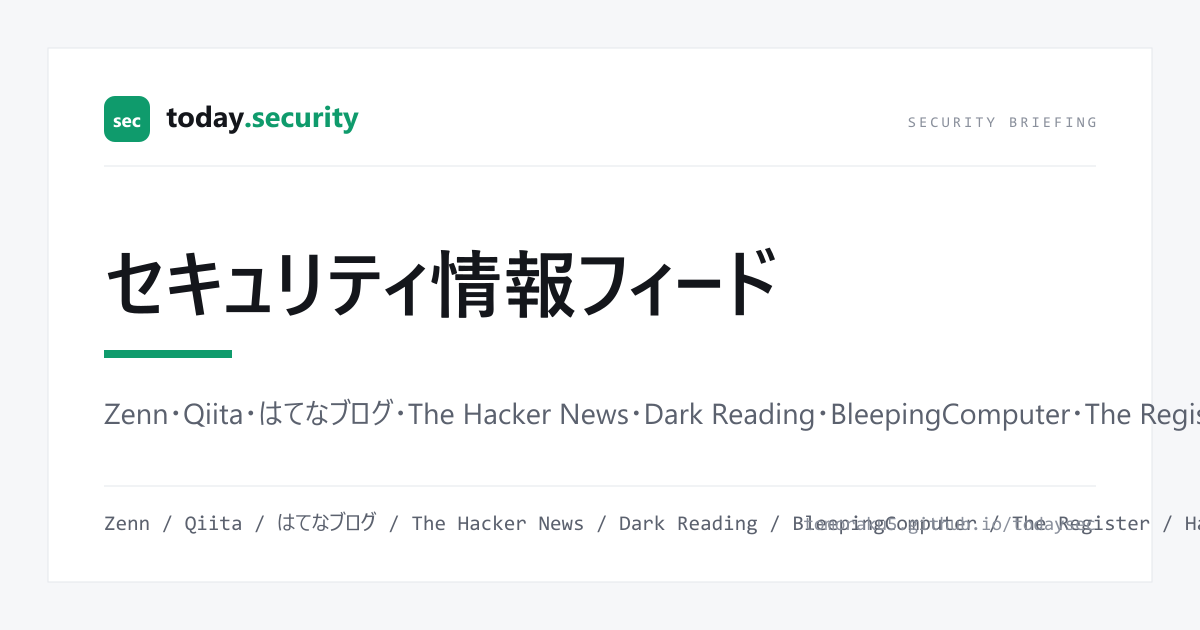
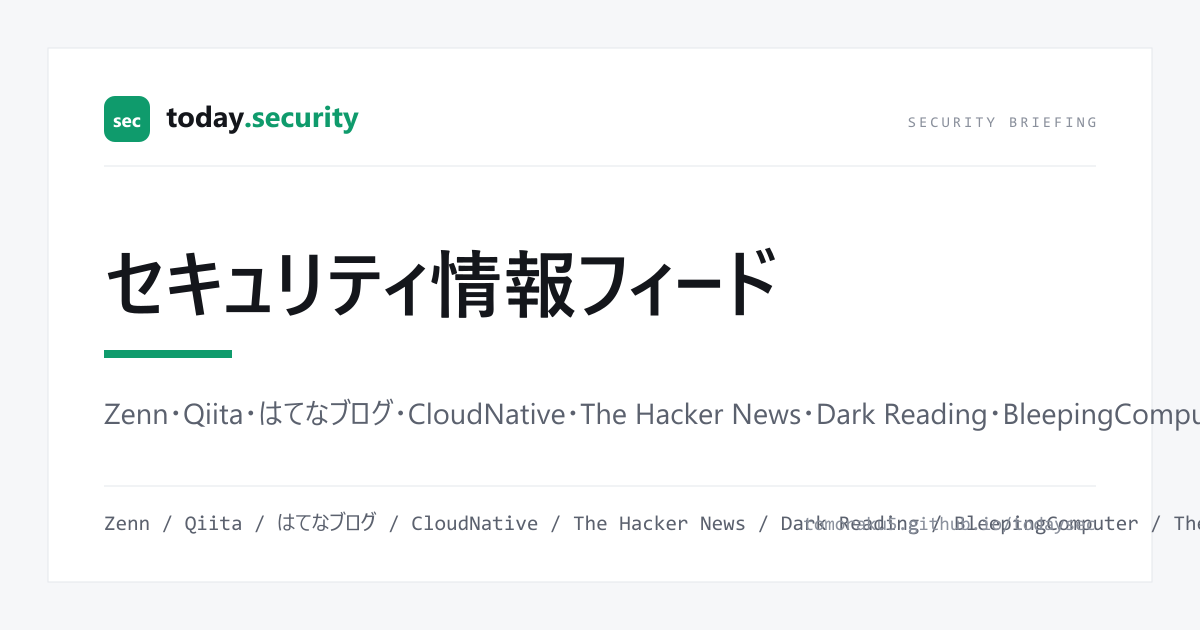
feat: 情報源に CloudNative BLOGs（セキュリティカテゴリ）を追加する
依頼の URL は blog.cloudnative.co.jp/category/security/ だったが、
⚠ カテゴリ別フィードは存在しない（/category/security/feed/ は HTML へ
リダイレクト、/rss.xml と /atom.xml は 404）。サイトが提供する唯一のフィードは
/feed.xml（全体・50件）なので、includeCategories で「セキュリティ」に絞る。

実測値:
- 全体フィード 50件 / 29.4日 = 1.70件/日。遡れる日数 約29日で全ソース中最大
- カテゴリ内訳: セキュリティ 32% / SaaS 20% / コラム 16% / AI 14% / その他 18%
- 絞り込み後 16件 / 0.55件/日
- enclosure にサムネ 50/50・dc:creator に著者名・抜粋は中央124字（空のものもある）
- 記事ページは UA 付き fetch で 200・og:image あり・本文 5,800〜11,300字

- バッジ色 --color-cloudnative: #7e57b7（10色目・Lab 色相309°の紫）。
  ⚠ 既存9色との最小色差 ΔE=43.8 で3回連続の基準未達（8色目48.3→9色目47.4→43.8）。
  白背景コントラスト 4.6〜6.6 の帯で全色相・全彩度を総当たりした最大値がこれで、
  これ以上離せる色は存在しない。個別色を続ける判断は項目10 のまま。同じ紫系の
  はてなブログとは彩度で差をつけている（58% vs 84%）。コントラスト 5.34:1
- enrichArticles の対象に追加（サムネはフィードにあるので将来の要約用の本文取得目的）
- OGP 画像を再生成（SOURCES を読むので文言修正は不要）

検証: 絞り込み前後 50→16件、16件すべてセキュリティ関連（タイトル目視）、
既存9ソースの取得は正常（hackread の 403 は既知・項目22）。

Changed region(s): [[0.3392, 0.6333, 1.0, 0.6937], [0.555, 0.8143, 1.0, 0.8444], [0.3392, 0.8143, 0.5242, 0.8444]]

diff --git a/scripts/aggregate.ts b/scripts/aggregate.ts
@@ -149,6 +149,7 @@ async function run(): Promise<void> {
   for (const source of [
     "zenn",
     "hatenablog",
+    "cloudnative",
     "thehackernews",
     "darkreading",
     "bleepingcomputer",
@@ -162,7 +163,10 @@ async function run(): Promise<void> {
       continue;
     }
     try {
-      const r = await fetchRss({ rssUrls: cfg.rssUrls, source, limit: cfg.limit });
+      // filter は「全体フィードしか無いサイトから目的の記事だけ取る」ための任意設定
+      // （現在の利用者は cloudnative のみ）。未設定のソースは従来どおり全件取り込む。
+      const filter = "filter" in cfg ? cfg.filter : undefined;
+      const r = await fetchRss({ rssUrls: cfg.rssUrls, source, limit: cfg.limit, filter });
       collected.push(...r.items);
       // URL 単位の失敗は他 URL を巻き込まない（fetchRss が握る）。理由だけ集計へ回す。
       for (const e of r.errors) errors.push(`${source}: ${e}`);
@@ -173,7 +177,21 @@ async function run(): Promise<void> {
           (dup > 0 ? ` ※URL間の重複 ${dup} 件は dedup で1件に集約` : ""),
       );
       for (const p of r.perUrl) {
-        console.log(`  └ ${p.url}: ${p.error ? `失敗 (${p.error})` : `${p.count} 件`}`);
+        // 絞り込みを設定した URL は「取得 → 残った件数」を出す＝条件が意図どおり効いているか、
+        // あとからログで確認できるようにするため。
+        const detail = p.error
+          ? `失敗 (${p.error})`
+          : p.fetched !== undefined
+            ? `${p.count} 件（フィード ${p.fetched} 件中 ${p.filtered} 件を絞り込みで除外）`
+            : `${p.count} 件`;
+        console.log(`  └ ${p.url}: ${detail}`);
+        // ⚠ フィードは返しているのに条件で全件落ちた＝サイト側がカテゴリ名を変えた等の疑い。
+        // 放置すると「run は緑のままソースだけ静かに止まる」ので警告として表面化させる。
+        if (p.allFiltered) {
+          const msg = `絞り込みで全件除外された（フィード ${p.fetched} 件 → 0 件）。条件がサイトの実態と合っていない可能性: ${p.url}`;
+          console.warn(`     ⚠ ${msg}`);
+          errors.push(`${source}: ${msg}`);
+        }
       }
     } catch (e) {
       const msg = (e as Error).message;
@@ -310,6 +328,7 @@ async function run(): Promise<void> {
         "zenn",
         "qiita",
         "hatenablog",
+        "cloudnative",
         "thehackernews",
         "darkreading",
         "bleepingcomputer",
@@ -392,6 +411,7 @@ async function run(): Promise<void> {
     zenn: 0,
     qiita: 0,
     hatenablog: 0,
+    cloudnative: 0,
     thehackernews: 0,
     darkreading: 0,
     bleepingcomputer: 0,
@@ -402,7 +422,7 @@ async function run(): Promise<void> {
   const withThumb = items.filter((i) => i.thumbnail).length;
   const withJa = items.filter((i) => i.titleJa).length;
   console.log(
-    `\n✅ feed.json 更新: 計 ${items.length} 件 (X=${counts.x} / Zenn=${counts.zenn} / Qiita=${counts.qiita} / はてなブログ=${counts.hatenablog} / THN=${counts.thehackernews} / DarkReading=${counts.darkreading} / Bleeping=${counts.bleepingcomputer} / TheRegister=${counts.theregister} / HackRead=${counts.hackread}) サムネ ${withThumb} 件 / 翻訳 ${withJa} 件`,
+    `\n✅ feed.json 更新: 計 ${items.length} 件 (X=${counts.x} / Zenn=${counts.zenn} / Qiita=${counts.qiita} / はてなブログ=${counts.hatenablog} / CloudNative=${counts.cloudnative} / THN=${counts.thehackernews} / DarkReading=${counts.darkreading} / Bleeping=${counts.bleepingcomputer} / TheRegister=${counts.theregister} / HackRead=${counts.hackread}) サムネ ${withThumb} 件 / 翻訳 ${withJa} 件`,
   );
   if (errors.length) {
     console.warn(`⚠  ${errors.length} 件のソースでエラー:\n  - ${errors.join("\n  - ")}`);

diff --git a/feeds.config.ts b/feeds.config.ts
@@ -21,6 +21,7 @@
 
 import type { FeedSource } from "./src/lib/feed";
 import type { QiitaApiTagConfig } from "./scripts/sources/qiitaApi";
+import type { RssItemFilter } from "./scripts/sources/rss";
 
 export type XCategory = "post" | "like" | "bookmark";
 
@@ -214,6 +215,33 @@ export interface FeedsConfig {
     retentionMax: number;
     disabled?: boolean;
   };
+  /**
+   * CloudNative BLOGs（クラウドネイティブ社の技術ブログ・日本語）の公開 RSS。トークン不要。
+   *
+   * ⚠ **カテゴリ別フィードは存在しない。** 依頼時の URL
+   * `blog.cloudnative.co.jp/category/security/` はカテゴリページ（HTML）で、
+   * `/category/security/feed/` も **HTML へリダイレクトする**（`/rss.xml`・`/atom.xml` は 404）。
+   * サイトが `<link rel="alternate">` で示す唯一のフィードが `/feed.xml`（全体・50件）。
+   *
+   * ⚠ **そのため全体フィードを `filter.includeCategories` で絞っている。**
+   * 実測のカテゴリ内訳は セキュリティ 32% / SaaS 20% / コラム 16% / AI 14% / その他 18% で、
+   * 絞らないと「PMが娘のランドセル選びで学んだこと」のような**話題が違う記事が7割**入る
+   * （質は高いがこのサイトの目的から外れる。判断は `docs/decisions.md` 項目24）。
+   *
+   * フィードは `<category>` を1件だけ持つ（実測: 複数カテゴリの記事は 0件）。
+   * `enclosure` にサムネがあり（50/50）、`dc:creator` に著者名が入る。
+   * 抜粋は中央124字と短く、**空のものもある**（カードの概要が空になるが表示は崩れない）。
+   */
+  cloudnative: {
+    rssUrls: string[];
+    /** 1回に取り込む最大件数（**1 URL あたり**・**絞り込み後**の件数に対する窓） */
+    limit?: number;
+    /** 保持上限件数（全期間アーカイブの安全弁） */
+    retentionMax: number;
+    /** ソース別の絞り込み（このソースが初の利用者。`scripts/sources/rss.ts` 参照） */
+    filter?: RssItemFilter;
+    disabled?: boolean;
+  };
   translate: {
     /**
      * 集約時の機械翻訳（原文→日本語）。Gemini REST API を使う。
@@ -358,6 +386,19 @@ export const feedsConfig: FeedsConfig = {
     limit: 20,
     // 約3.3件/日なので 1000 件 ≒ 10ヶ月分。既定のままで足りる。
     retentionMax: 1000,
+    disabled: false,
+  },
+  cloudnative: {
+    // ⚠ カテゴリ別フィードは存在しない（上のコメント参照）。全体フィードを filter で絞る。
+    rssUrls: ["https://blog.cloudnative.co.jp/feed.xml"],
+    // 全体で 1.70件/日・フィードは50件（約29日分）返す＝全ソースで最も余裕がある。
+    // 「セキュリティ」に絞ると 0.55件/日 なので、limit 20 は実質「条件に合う全件」。
+    limit: 20,
+    // 絞り込み後 0.55件/日 → 1000件 ≒ 5年分。既定のままで十分。
+    retentionMax: 1000,
+    // ⚠ この値はサイトのカテゴリ名と完全一致で照合する。サイト側が改名すると 0 件になるが、
+    // その場合は aggregate が「⚠ 絞り込みで全件落ちた」と警告を出す（静かに止まらない）。
+    filter: { includeCategories: ["セキュリティ"] },
     disabled: false,
   },
   translate: {

diff --git a/src/styles/globals.css b/src/styles/globals.css
@@ -83,6 +83,19 @@
      既存の濃いバッジ（5.06〜5.71）と明度感もそろう。 */
   --color-hackread: #9c546e;
   --color-hackread-bg: rgba(156, 84, 110, 0.12);
+  /* CloudNative BLOGs。**10色目**。Lab 色相 309°（紫）。
+     ⚠ 既存9色（8ソース＋ロゴ）との最小色差は ΔE=43.8 で、**3回連続で基準未達**
+     （7色目まで守っていた基準は「既存どうしの最小ペア Qiita↔ロゴ = 58.3 を上回る」。
+     8色目 The Register 48.3 → 9色目 HackRead 47.4 → 本色 43.8 と下がり続けている）。
+     最近接は HackRead 43.8 / Zenn 44.0 / はてなブログ 44.4 でほぼ等距離。
+     白背景コントラスト 4.6〜6.6 の帯で全色相・全彩度を総当たりした結果の**最大値**が 43.8
+     ＝ これ以上離せる色は存在しない（色相環と可読な明度帯が埋まっているため）。
+     **それでも個別色を続ける判断**は `docs/decisions.md` 項目10 のまま
+     （バッジには常にソース名の文字が入るので、色は補助的な手がかりに留める）。
+     同じ紫系のはてなブログ（#7c3aed・彩度84%）とは**彩度で差をつけている**（本色は58%）。
+     白背景コントラストは 5.34:1（WCAG AA クリア）で、既存の濃いバッジ（5.06〜5.71）と明度感もそろう。 */
+  --color-cloudnative: #7e57b7;
+  --color-cloudnative-bg: rgba(126, 87, 183, 0.12);
 
   /* X ツイート風カード（朝刊ライトに合わせた配色） */
   --color-tweet-bg: #ffffff;
@@ -201,6 +214,10 @@ a {
 .src-hackread {
   color: var(--color-hackread);
   background: var(--color-hackread-bg);
+}
+.src-cloudnative {
+  color: var(--color-cloudnative);
+  background: var(--color-cloudnative-bg);
 }
 
 /* フィルタ非表示用 */

diff --git a/src/lib/feed.ts b/src/lib/feed.ts
@@ -14,7 +14,8 @@ export type FeedSource =
   | "darkreading"
   | "bleepingcomputer"
   | "theregister"
-  | "hackread";
+  | "hackread"
+  | "cloudnative";
 
 export interface FeedItem {
   /** 一意キー（X: tweet id / 記事系(zenn/qiita/hatenablog): `<source>-<記事URL>`） */
@@ -158,6 +159,12 @@ export const SOURCES: SourceMeta[] = [
     label: "はてなブログ",
     badgeClass: "src-hatenablog",
     description: "セキュリティ専門ブログ（piyolog / Fox on Security / GMO Flatt Security）の新着記事。",
+  },
+  {
+    key: "cloudnative",
+    label: "CloudNative",
+    badgeClass: "src-cloudnative",
+    description: "CloudNative BLOGs（クラウドネイティブ社）の「セキュリティ」カテゴリの記事。",
   },
   {
     // ⚠ Y Combinator の Hacker News（news.ycombinator.com）とは**別サービス**。
